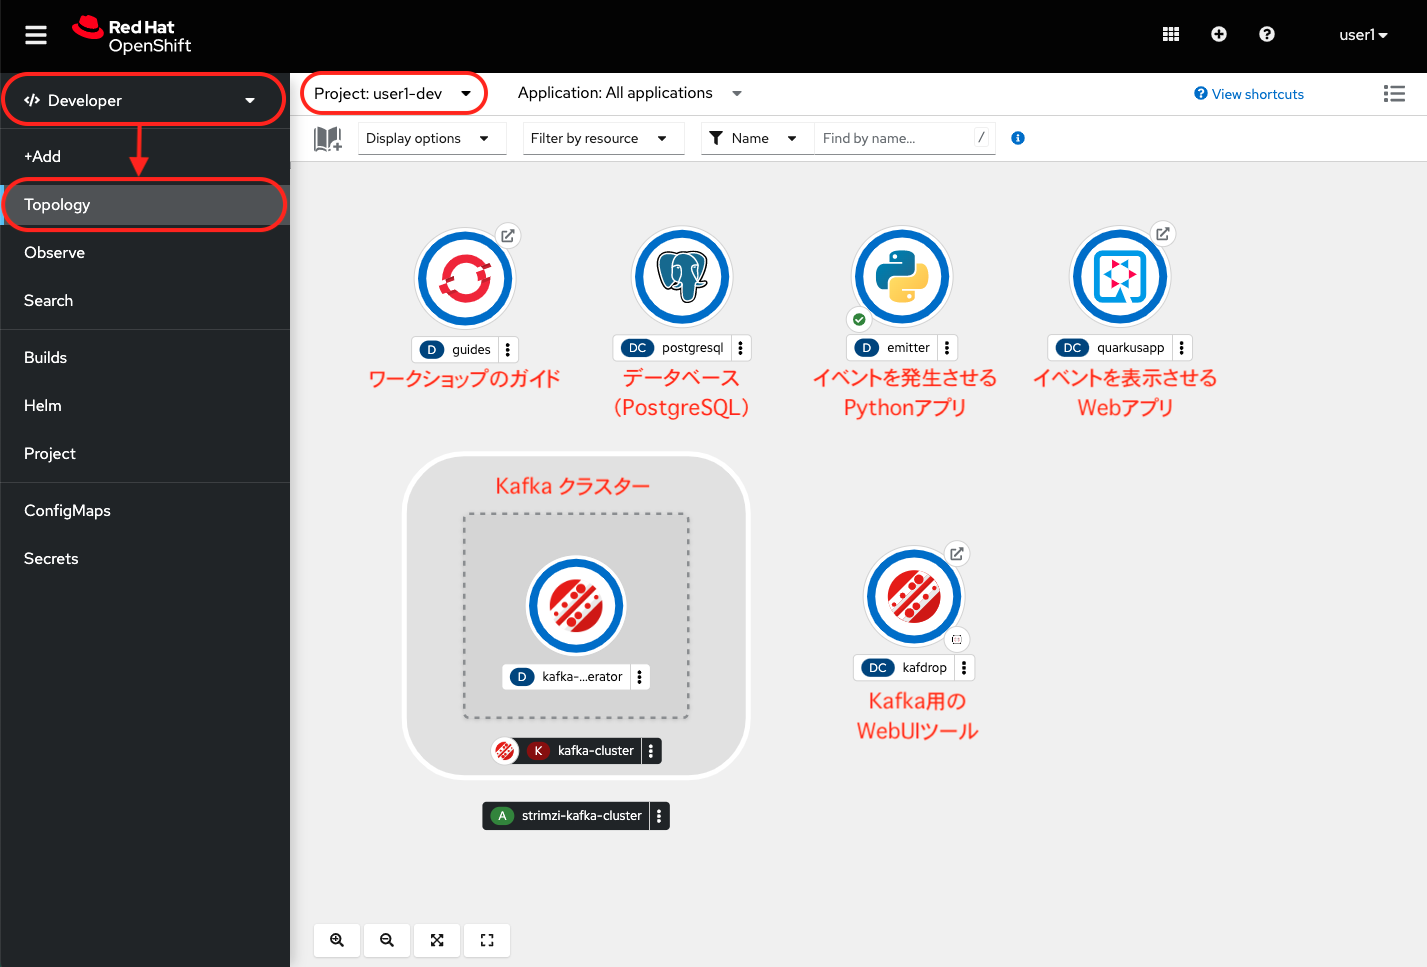
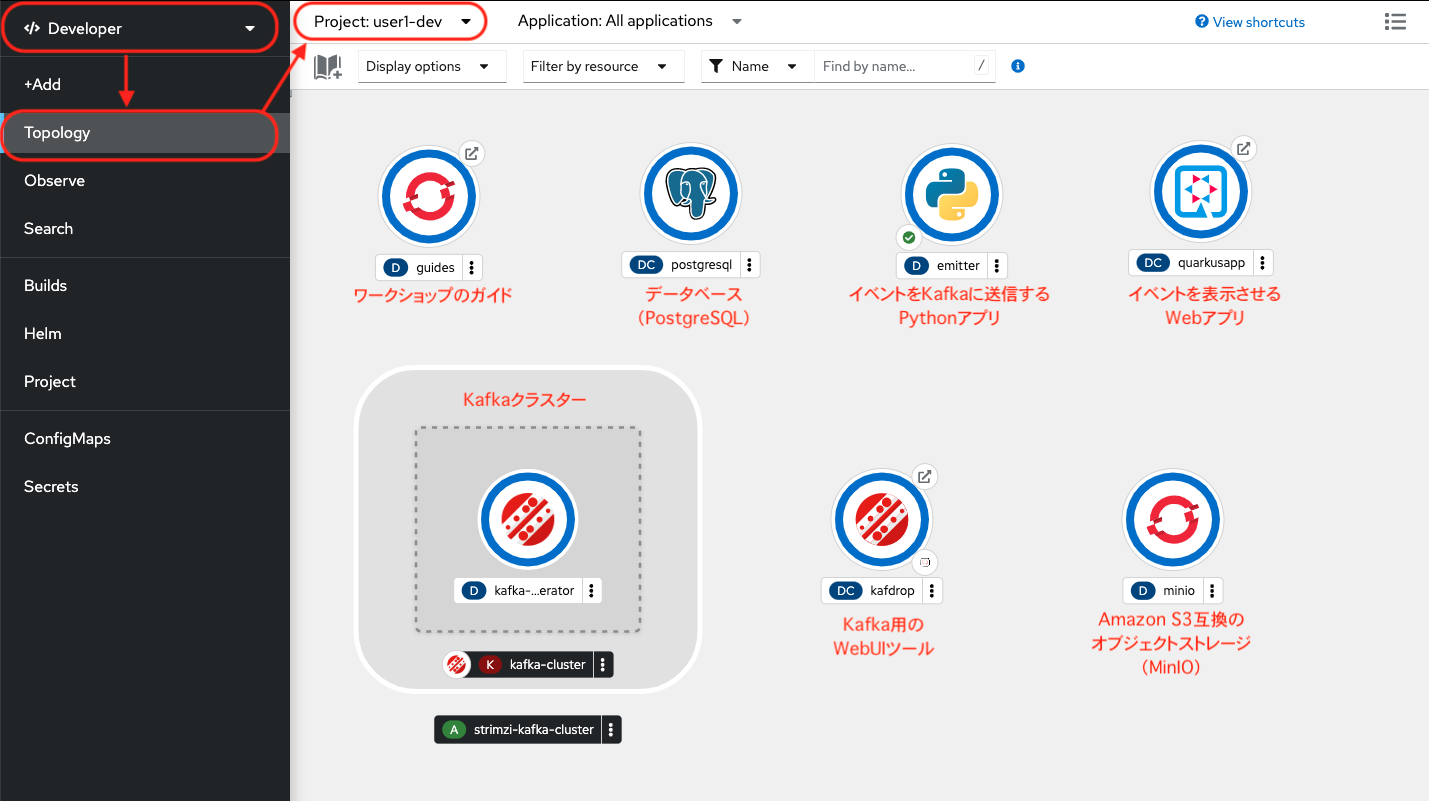
updates

diff --git a/rest-api-service.md b/rest-api-service.md
@@ -3,4 +3,92 @@
 
 ### 1. 目的
 
-準備中
+このセクションでは、OpenAPIの定義を用いて、エンドポイントの実装と サーバーレス API としてのデプロイまでを、Camel K のインテグレーションで作成します。
+
+![](images/10-restapi-001.png)
+![karavan]({% image_path 10-restapi-001.png %}){:width="800px"}
+
+このシナリオでは、APIを使用して、ユーザーがファイルなどの汎用オブジェクトをバックエンドシステムに保存し、それに対するCRUD操作を許可します。
+
+バックエンドは、オープンソースソフトウェアで Amazon S3 互換のオブジェクトストレージである、MinIO を使用していきます。
+
+* **OpenAPI**: https://www.openapis.org/
+* **MinIO**: https://min.io/
+
+---
+
+### 2. OpenAPI定義をKaravanにインポートする
+
+ベースになる OpenAPIの定義は、`minio/openapi.camel.yaml` に記述されています。
+中身を見て確認をしてみてください。
+
+このAPIを用いて実装したい操作は、以下の内容です。
+
+* **get /v1**: 含まれているオブジェクトの名前の一覧表示
+* **get /v1/{name}**: オブジェクトのコンテンツを取得する
+* **put /v1/{name}**: 新しいオブジェクトの作成
+* **delete /v1/{name}**: オブジェクトの削除
+
+![](images/10-restapi-002.png)
+![karavan]({% image_path 10-restapi-002.png %}){:width="1200px"}
+
+<!-- ここから: Karavan の バグ修正後に切り替え 
+
+まずは、OpenShift DevSpaces 左のエクスプローラー上で、`minio` フォルダの中に、`openapi.camel.yaml` というファイルがあるので、右クリックをして、`Karavan: Generate REST API` を選択してください。
+
+![](images/10-restapi-003.png)
+![karavan]({% image_path 10-restapi-003.png %}){:width="800px"}
+
+今回は新規にインテグレーションを作成するので、`Create new Integration` をクリックします。
+
+![](images/10-restapi-004.png)
+![karavan]({% image_path 10-restapi-004.png %}){:width="600px"}
+
+テキストボックスに `api` と入力して、Enterを押してください。
+
+![](images/10-restapi-005.png)
+![karavan]({% image_path 10-restapi-005.png %}){:width="600px"}
+
+続いて表示されるポップアップに対して、`Generate REST and Route` をクリックします。
+
+![](images/10-restapi-006.png)
+![karavan]({% image_path 10-restapi-006.png %}){:width="600px"}
+
+-->
+
+まずは、OpenAPIの定義をインポートして、REST API のエンドポイントと Camel の Route を生成します。ターミナルを開き、下記のコマンドを実行してください。
+
+```
+jbang camel@apache/camel generate rest -i minio/openapi.camel.yaml --routes --type=yaml > api.camel.yaml
+```
+
+コマンドの実行完了後、`api.camel.yaml` というファイルが作成されますので、右クリックして、`karavan: Open` を選択します。
+
+`REST` のタブをクリックすると、REST API のエンドポイントの情報を確認することができます。
+それぞれのプロパティを確認し、OpenAPIの定義と比較してみてください。
+
+![](images/10-restapi-007.png)
+![karavan]({% image_path 10-restapi-007.png %}){:width="1200px"}
+
+`Route` のタブをクリックすると、REST APIに対応した Camel の Route が、`direct` を source にして作成されています。
+OpenAPI定義の `operationId` が、`direct` の URI と対応しています。
+
+![](images/10-restapi-008.png)
+![karavan]({% image_path 10-restapi-008.png %}){:width="1200px"}
+
+---
+
+### 3. Route の処理を実装する
+
+Camel の [AWS S3 Storage Service](https://camel.apache.org/components/{{ CAMEL_VERSION }}/aws2-s3-component.html){:target="_blank"} コンポーネントを使用して、Amazon S3 互換のオブジェクトストレージである、MinIO に対して操作をする処理を実装していきます。
+
+#### 3.1 含まれているオブジェクトの名前の一覧表示
+
+
+
+
+---
+
+### 5. 参考リンク
+
+* **製品ドキュメント AWS S3 Storage Service**: https://access.redhat.com/documentation/it-it/red_hat_build_of_apache_camel_for_spring_boot/3.14/html/camel_spring_boot_reference/csb-camel-aws2-s3-component-starter

diff --git a/kafka.md b/kafka.md
@@ -119,8 +119,8 @@ WebUI は、`outcoming-topic` という Kafka トピック に送信されたメ
 
 それでは、先ほど作成した `kafka.camel.yaml` に、`outcoming-topic` へメッセージを発信する処理を追加していきます。
 
-Route にマウスカーソルを持っていくと、Log シンボルの下に小さな＋ボタンが現れますので、それをクリックし、`Kamelets` タブから `Kafka Secures Sink` を探して選択をしてください。
-右上のテキストボックスに `Kafka Secures Sink` と入力をすると、絞り込みができます。
+Route にマウスカーソルを持っていくと、Log シンボルの下に小さな＋ボタンが現れますので、それをクリックし、`Kamelets` タブから `Kafka Sink` を探して選択をしてください。
+右上のテキストボックスに `Kafka Sink` と入力をすると、絞り込みができます。
 
 ![](images/07-kafka-011.png)
 ![karavan]({% image_path 07-kafka-011.png %}){:width="800px"}

diff --git a/postgresql-sink.md b/postgresql-sink.md
@@ -211,6 +211,7 @@ products テーブル の 中身を確認してみましょう。`select * from 
 また、作成した `postgresql.camel.yaml` を `temp` フォルダに移動をしておいてください。 
 
 ---
+
 ### 参考リンク
 
 * [Red Hat Integration - Kamelets リファレンス](https://access.redhat.com/documentation/ja-jp/red_hat_integration/2022.q4/html/kamelets_reference/postgres-sql-sink){:target="_blank"}
